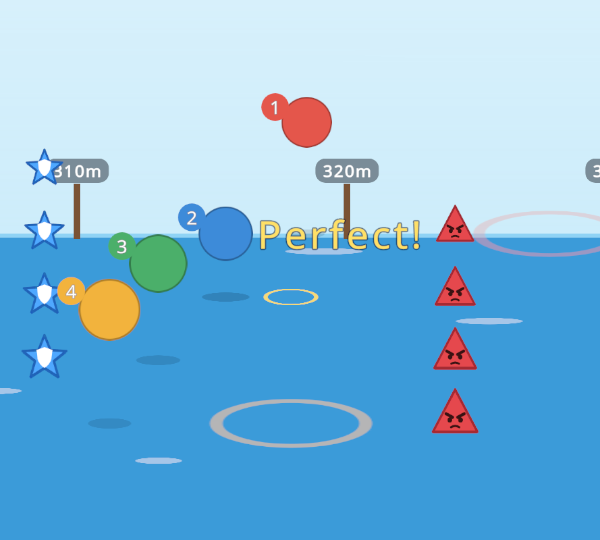
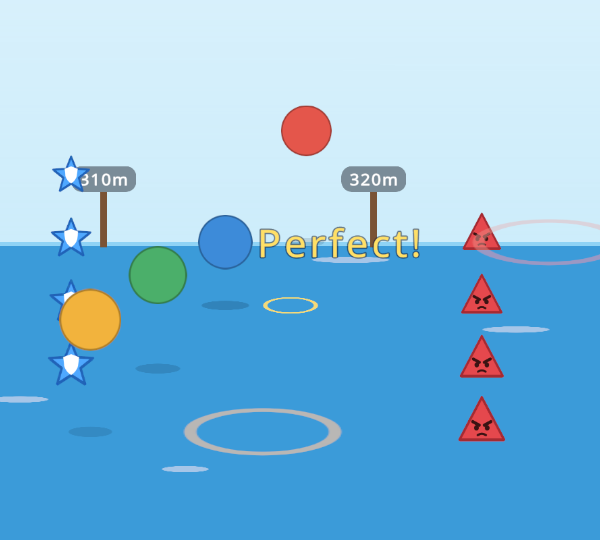
MiniRingle: 링글 슈팅 게임 카드 · 점수 페이지 무대 · 물수제비 그림

diff --git a/miniringle/score.html b/miniringle/score.html
@@ -79,6 +79,9 @@
       .stage[data-theme="descend"] { background: linear-gradient(90deg, #8a6a50 0 14%, #eaf5ff 14% 86%, #8a6a50 86%); }
       .stage[data-theme="descend"]::before { background: #3a2e2a; }
       .stage[data-theme="descend"]::after { display: none; }
+      /* 링글 슈팅: 위는 짙고 아래로 밝아지는 하늘 - 링글이 하늘의 세모 무리를 쏜다 */
+      .stage[data-theme="shoot"] { background: linear-gradient(#5fb8ff, #d6f1ff); }
+      .stage[data-theme="shoot"]::before, .stage[data-theme="shoot"]::after { display: none; }
       /* 링글 물수제비: 하늘 + 아래쪽 물(물결 · 세모 · 물보라 고리), 링글이 수면을 낮게 스치듯 튄다 */
       .stage[data-theme="skip"] { background: linear-gradient(#bfe8fa, #e3f5fd); }
       .stage[data-theme="skip"]::before, .stage[data-theme="skip"]::after { display: none; }
@@ -227,7 +230,7 @@
     <script>
       // 게임이 복사한 자랑 링크(?g=게임 Id&s=점수&lang=ko|en, 여럿이면 &p=시상대 · 높이 게임은 &u=h)를 보여 준다. 서버가 없어 점수는 링크에 적힌 그대로다(자랑용).
       // 값은 글자로만 넣는다(textContent) - 링크를 고쳐도 페이지에 코드가 끼어들지 못한다. 개인정보는 링크에 없다.
-      // 무대(theme)는 게임마다: flight = 위아래 벽 사이 통로(기본), jump = 하늘 · 구름 발판, skip = 하늘 · 아래쪽 물, reflex = 초록 신호, stack = 하늘 · 받침 땅 · 링글 탑, memory = 링글 넷(하나만 색이 찬다), match = 도형 넷, climb = 좌우 벽 사이 통로, descend = 바위 사이 통로와 천장.
+      // 무대(theme)는 게임마다: flight = 위아래 벽 사이 통로(기본), jump = 하늘 · 구름 발판, skip = 하늘 · 아래쪽 물, reflex = 초록 신호, stack = 하늘 · 받침 땅 · 링글 탑, memory = 링글 넷(하나만 색이 찬다), match = 도형 넷, climb = 좌우 벽 사이 통로, descend = 바위 사이 통로와 천장, shoot = 위가 짙은 하늘.
       (function () {
         var games = {
           ringle_flight: { ko: "링글 플라이트", en: "Ringle Flight", theme: "flight" },
@@ -238,7 +241,8 @@
           ringle_memory: { ko: "링글 기억력", en: "Ringle Memory", theme: "memory" },
           ringle_match: { ko: "링글 짝 맞추기", en: "Ringle Match", theme: "match" },
           ringle_climb: { ko: "링글 벽타기", en: "Ringle Climb", theme: "climb" },
-          ringle_descend: { ko: "링글 내려가기", en: "Ringle Descent", theme: "descend" }
+          ringle_descend: { ko: "링글 내려가기", en: "Ringle Descent", theme: "descend" },
+          ringle_shoot: { ko: "링글 슈팅", en: "Ringle Shooter", theme: "shoot" }
         };
         var params = new URLSearchParams(location.search);
         var key = "miniringle-language-choice";

diff --git a/miniringle/index.html b/miniringle/index.html
@@ -179,6 +179,15 @@
               <p lang="en">Your Ringle never stops rolling. Tap to turn and drop off the ledges to go down. Watch out for wall spikes and the chasing ceiling! With friends, everyone races down the same shaft.</p>
             </div>
           </article>
+          <article class="game-card">
+            <img src="assets/games/ringle_shoot.png" alt="Ringle Shooter" width="600" height="540" loading="lazy" />
+            <div class="info">
+              <b><span lang="ko">링글 슈팅</span><span lang="en">Ringle Shooter</span></b>
+              <span class="tags"><span lang="ko">세로 화면 · 1~4명</span><span lang="en">Portrait · 1-4 players</span></span>
+              <p lang="ko">좌우로 오가며 저절로 쏘는 링글을 눌러 방향을 바꿔요. 줄지어 내려오는 세모 무리를 부수고, 쪼개지는 세모와 보스를 조심! 무지개 별을 먹으면 펫 링글이 함께 쏴요. 여럿이면 팀 점수를 겨뤄요.</p>
+              <p lang="en">Your Ringle sweeps side to side and fires on its own. Tap to turn! Blast the triangle squads before they reach you, watch out for splitting triangles and bosses, and grab rainbow stars for a pet Ringle that shoots with you. With friends, teams battle for the top score.</p>
+            </div>
+          </article>
         </div>
         <p class="games-note"><span lang="ko">더 많은 미니게임이 준비 중이에요.</span><span lang="en">More mini-games are on the way.</span></p>
       </section>
